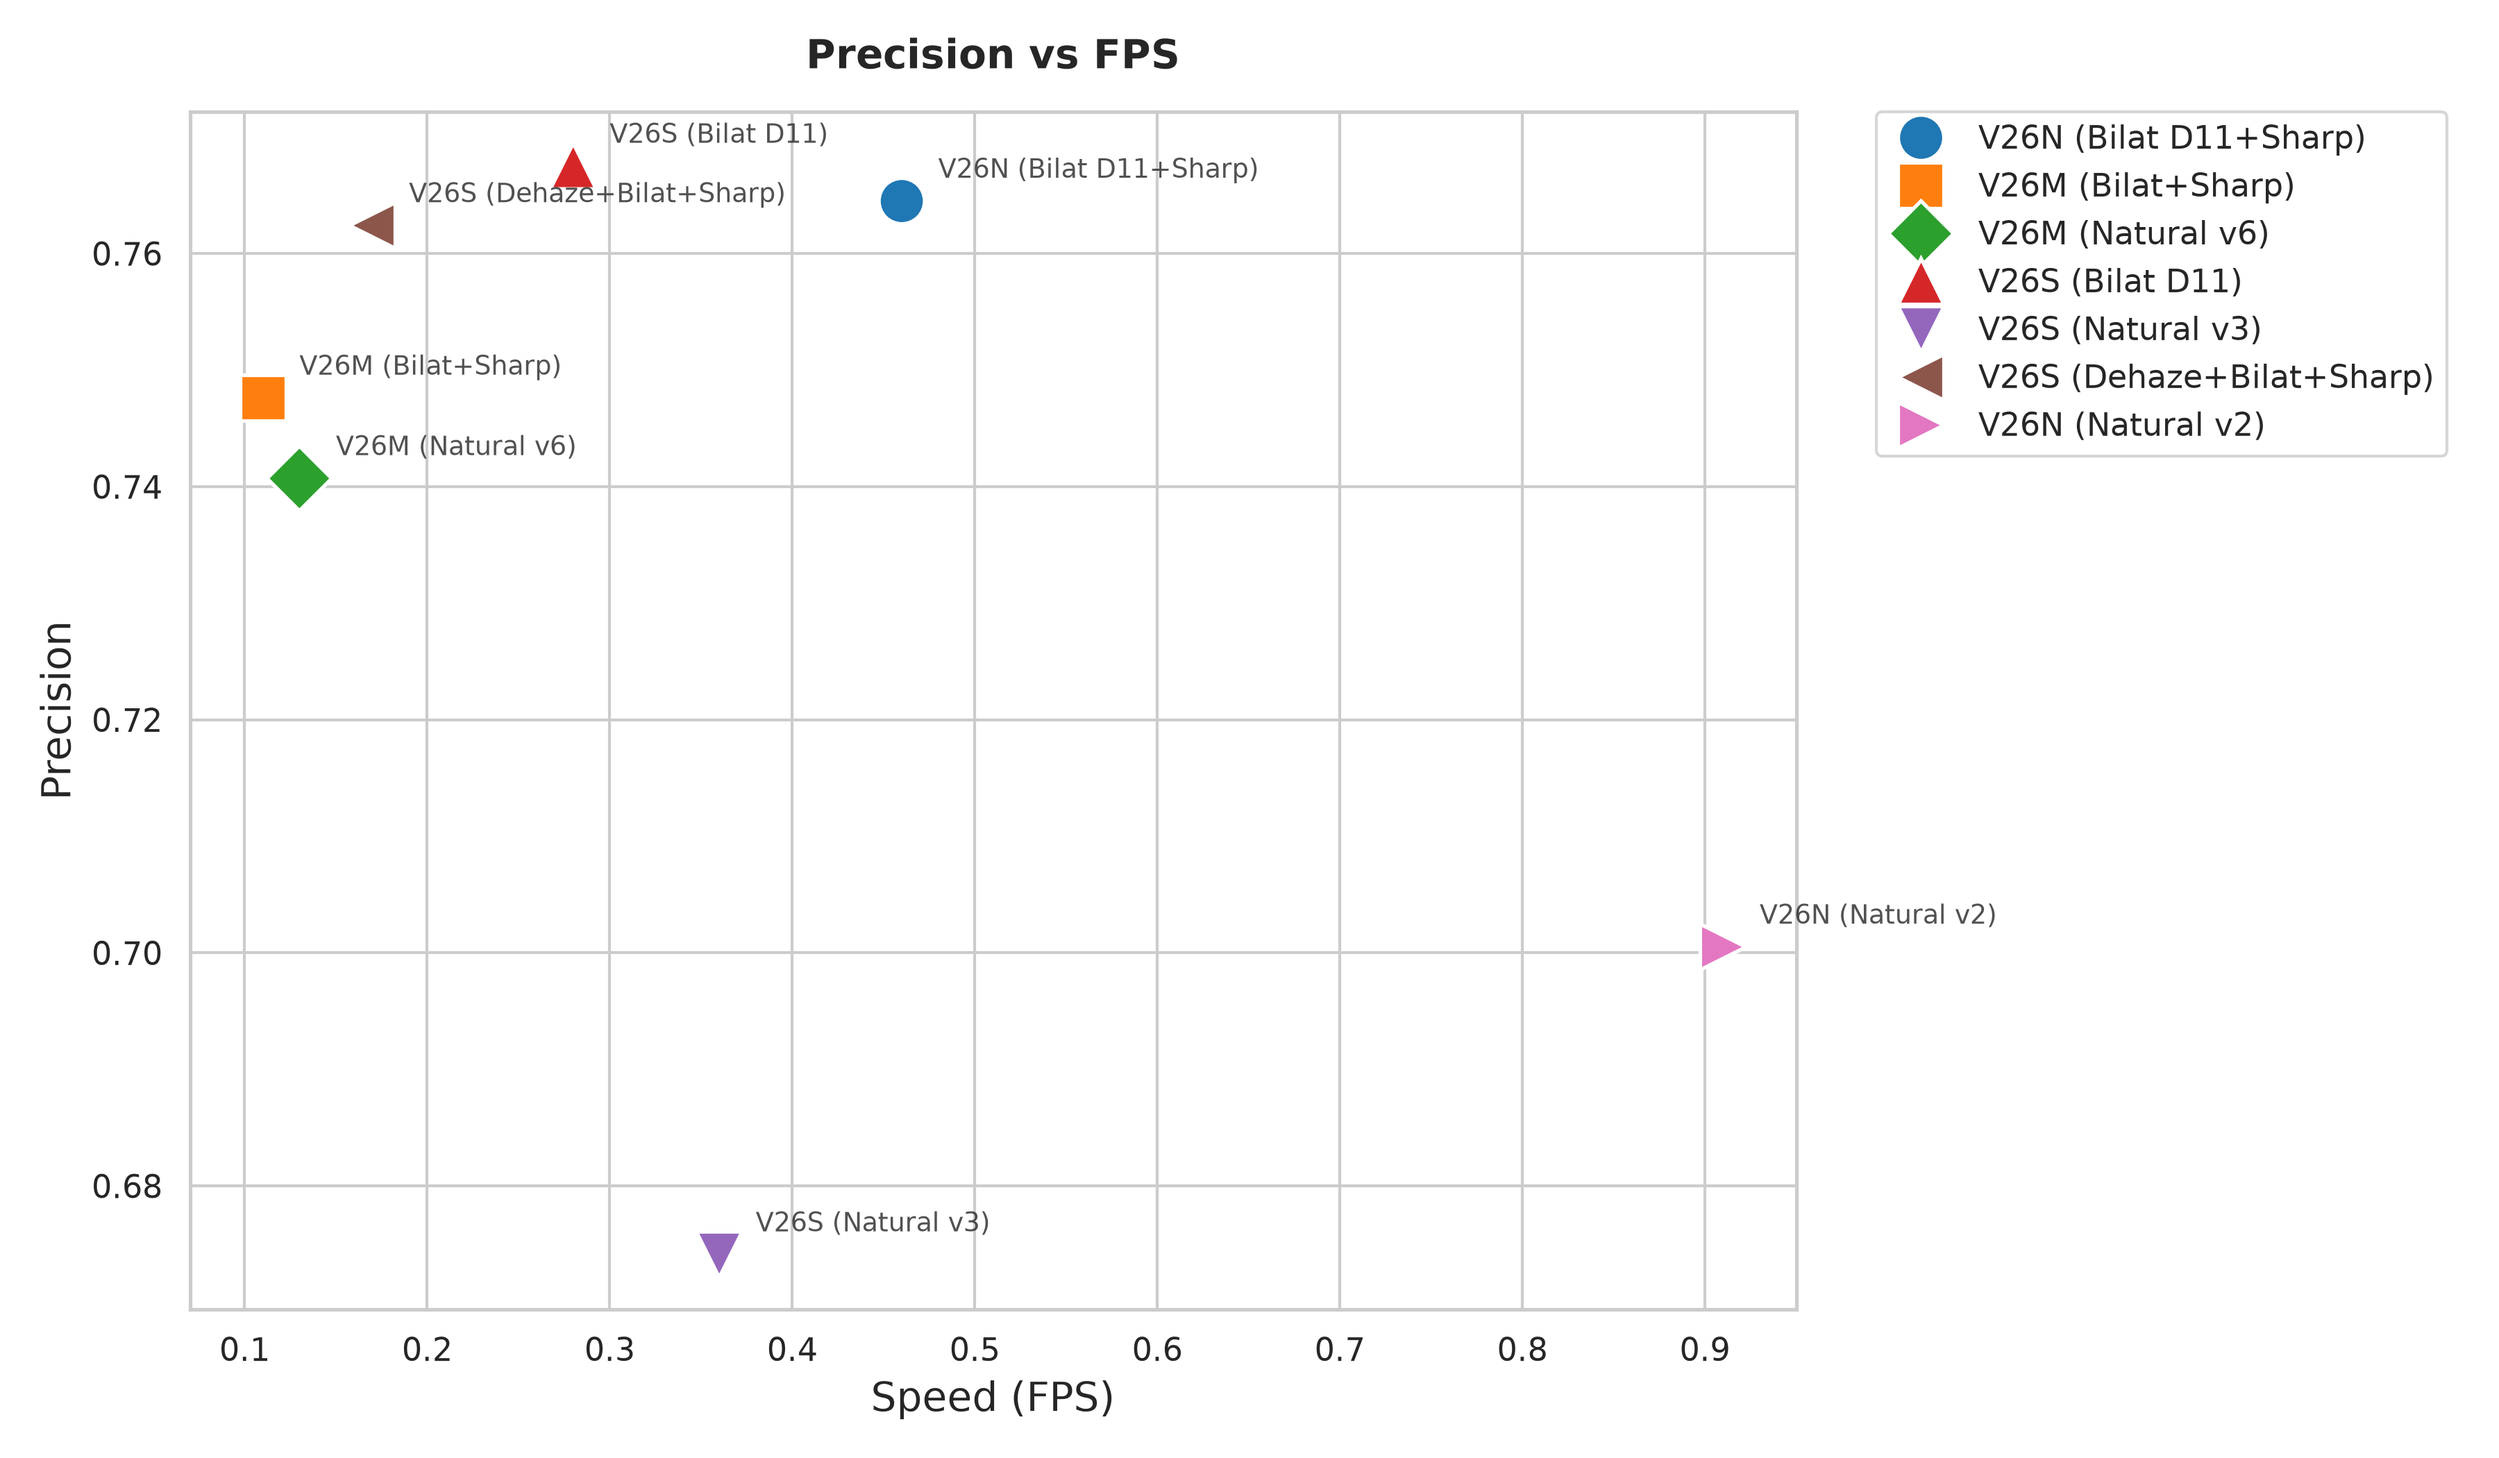
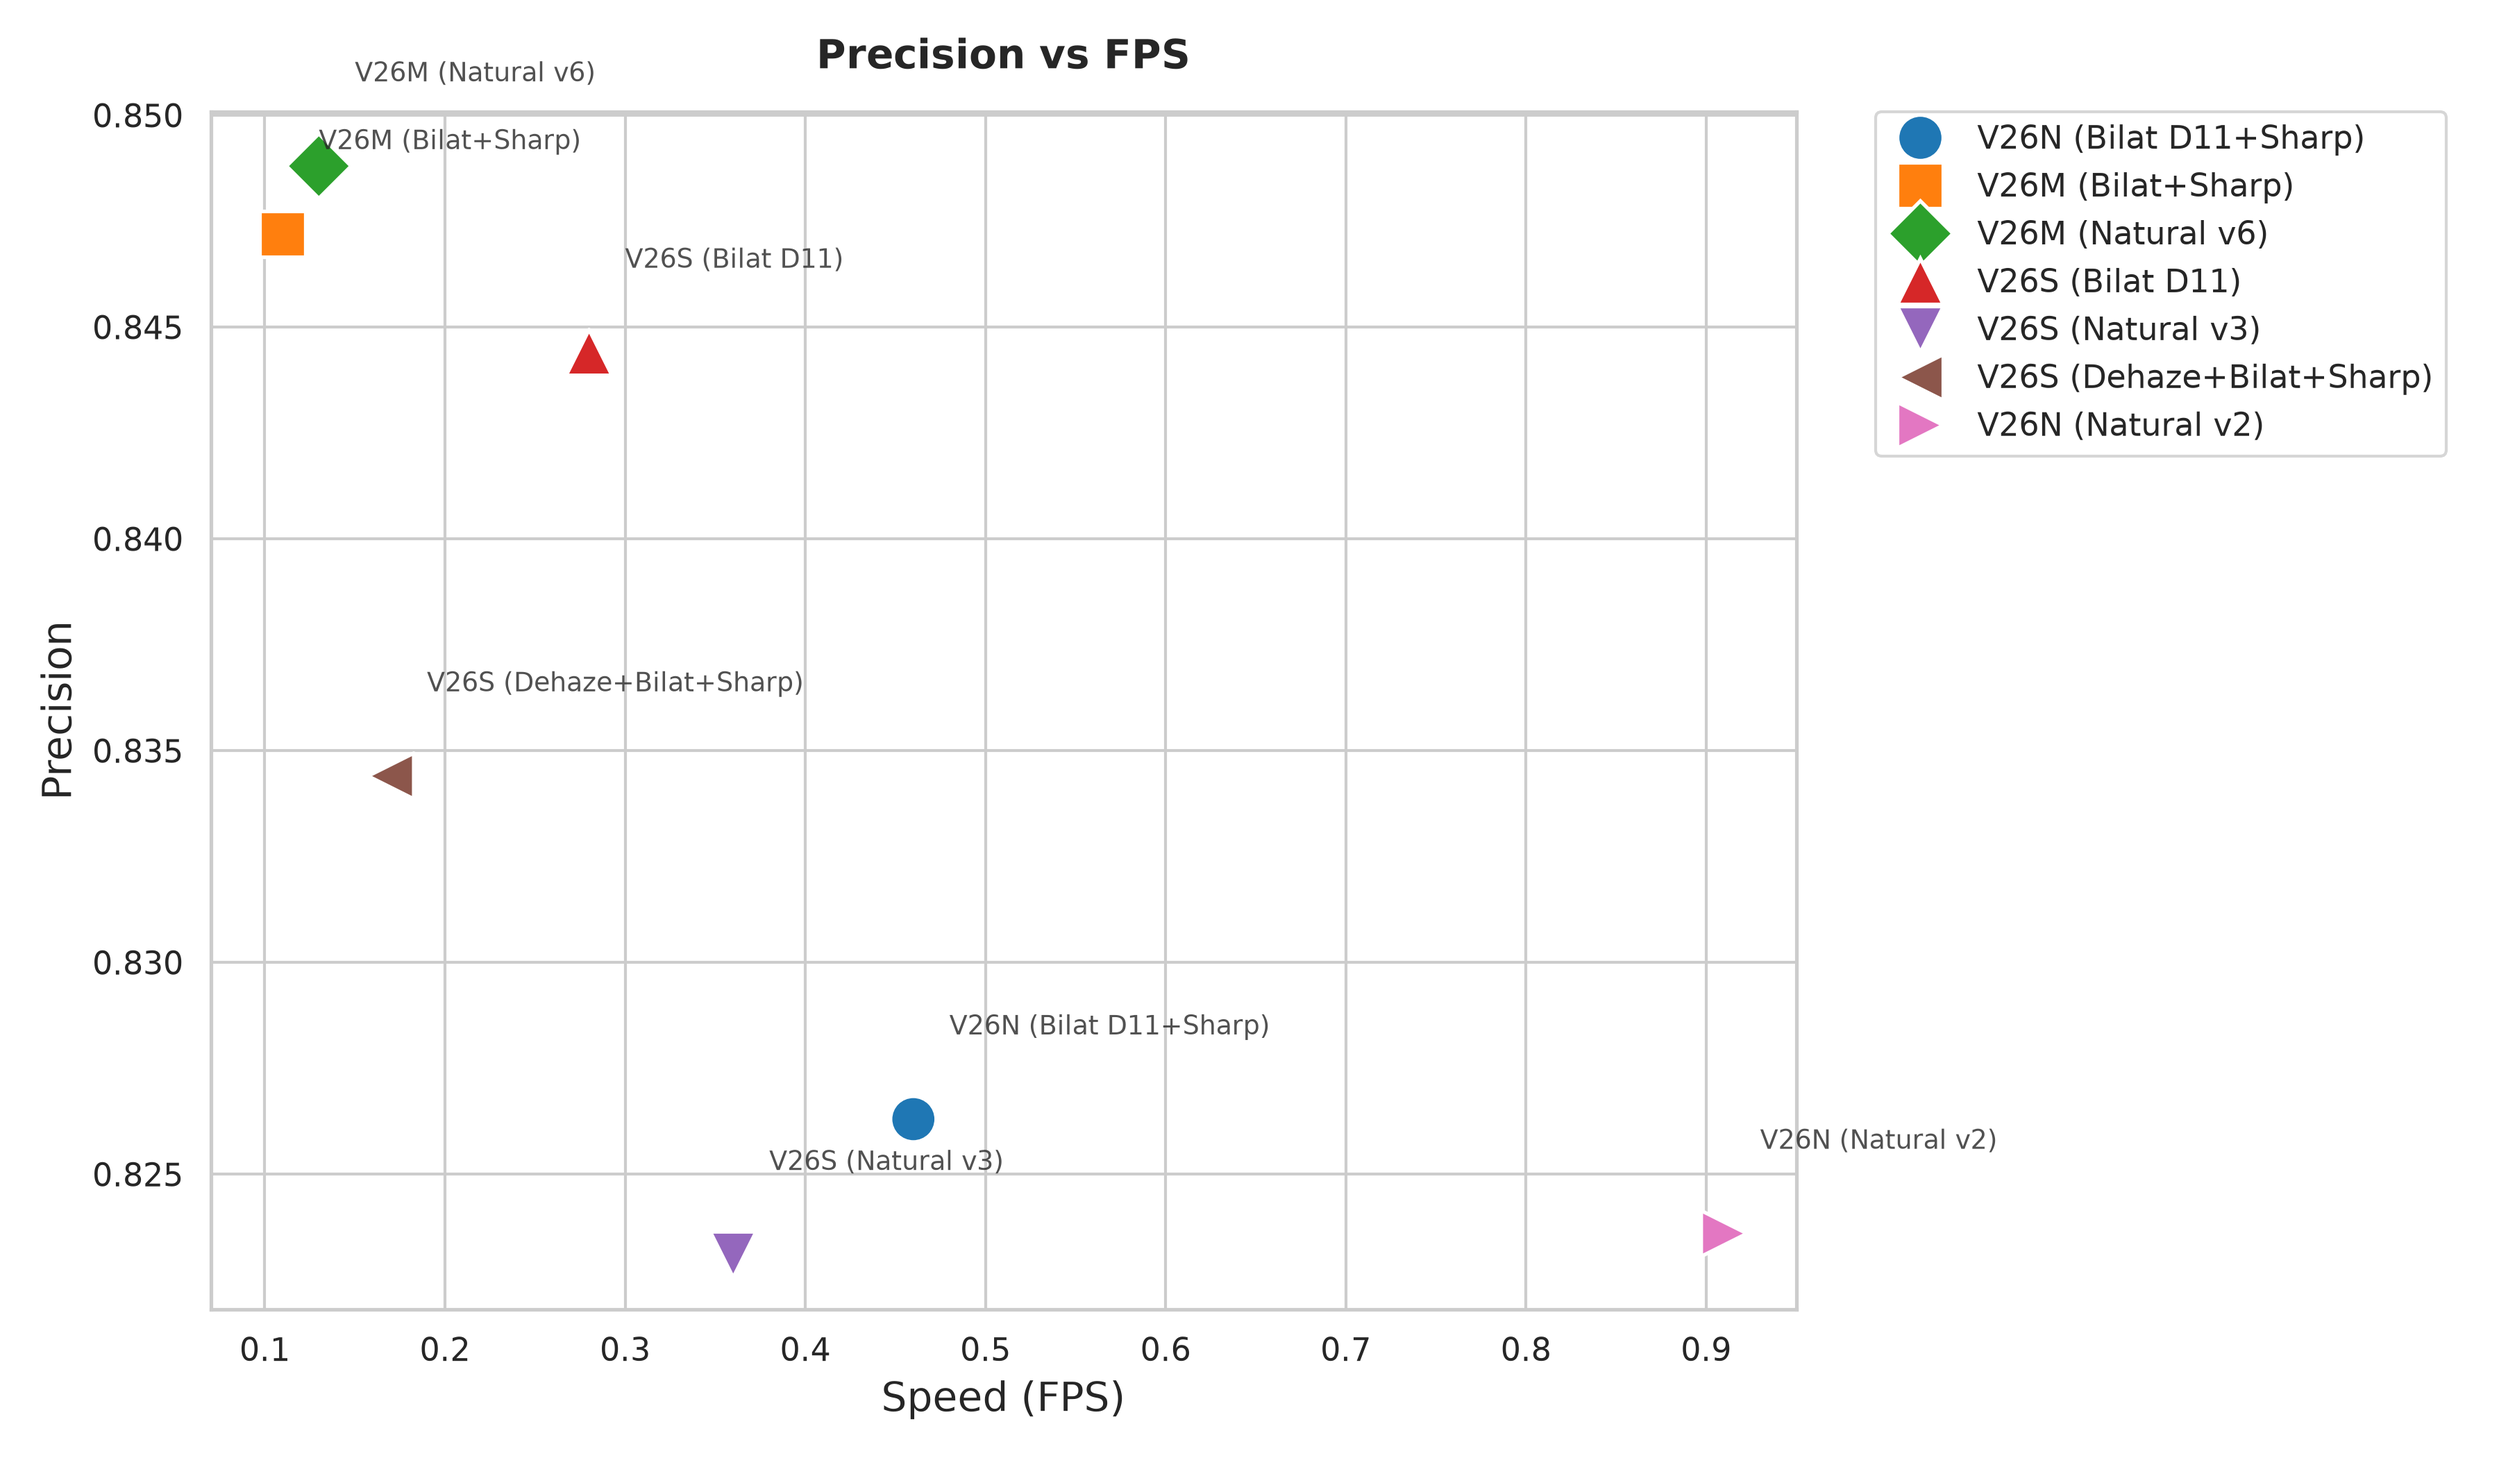
fix

diff --git a/cluster_evaluate_classes.py b/cluster_evaluate_classes.py
@@ -14,27 +14,22 @@ TOP_MODELS = [
     "v26s_untuned_dehaze_bilateral_sharp"
 ]
 
-def get_yaml_for_model(model_name):
-    """
-    Deduce il path del file YAML del dataset in base al nome del modello.
-    Se il nome ha un run_id finale (es. -6), lo rimuove per trovare il nome del dataset.
-    """
-    # Rimuove l'identificativo della run alla fine (es: "-6", "-3") se presente
-    base_name = model_name
-    if "-" in model_name:
-        base_name = model_name.rsplit("-", 1)[0]
-    
-    # Estrae i filtri: "v26m_untuned_tiled_bilateral_sharp" -> "tiled_bilateral_sharp"
-    # Assumiamo che tutti contengano "_untuned_"
-    if "_untuned_" in base_name:
-        suffix = base_name.split("_untuned_")[1]
-    else:
-        suffix = "tiled"
-        
-    yaml_dir = f"dataset_{suffix}"
-    yaml_file = f"uavod10_{suffix}.yaml"
-    
-    return os.path.join(yaml_dir, yaml_file)
+import os
+import csv
+from pathlib import Path
+from ultralytics import YOLO
+
+# Mappatura esatta estratta dal file runs.csv di MLflow.
+# In questo modo non abbiamo bisogno del file runs.csv fisicamente sul cluster!
+MODEL_TO_YAML = {
+    "v26m_untuned_tiled-6": "dataset_tiled/uavod10_tiled.yaml",
+    "v26s_untuned_tiled-3": "dataset_tiled/uavod10_tiled.yaml",
+    "v26s_untuned_tiled_bilateral_d11": "dataset_bilateral_tiled/uavod10_bilateral_tiled.yaml",
+    "v26n_untuned_tiled-2": "dataset_tiled/uavod10_tiled.yaml",
+    "v26m_untuned_tiled_bilateral_sharp": "dataset_bilateral_sharp_tiled/uavod10_bilateral_sharp_tiled.yaml",
+    "v26n_untuned_tiled_bilateral_d11_sharp": "dataset_bilateral_tiled/uavod10_bilateral_tiled.yaml",
+    "v26s_untuned_dehaze_bilateral_sharp": "dataset_dehaze_bilateral_sharp_tiled/uavod10_dehaze_bilateral_sharp_tiled.yaml"
+}
 
 def main():
     print("="*60)
@@ -47,11 +42,10 @@ def main():
         writer = csv.writer(f)
         writer.writerow(["Model", "mAP50", "mAP50-95", "Precision", "Recall"])
         
-        for model_name in TOP_MODELS:
+        for model_name, yaml_path in MODEL_TO_YAML.items():
             print(f"\n[{model_name}] Valutazione in corso...")
             
             # Cerca il file pesi best.pt nella cartella addestrata
-            # (Adattare il path se sul cluster è diverso, es. runs/detect/...)
             pt_path = f"YOLO/trained_model/{model_name}/weights/best.pt"
             
             if not os.path.exists(pt_path):
@@ -59,9 +53,8 @@ def main():
                 print("Assicurati che i modelli si trovino nel percorso corretto sul cluster.")
                 continue
                 
-            yaml_path = get_yaml_for_model(model_name)
             if not os.path.exists(yaml_path):
-                print(f"❌ ATTENZIONE: File YAML non trovato: {yaml_path}")
+                print(f"❌ ATTENZIONE: File YAML non trovato sul cluster: {yaml_path}")
                 continue
                 
             try:
@@ -77,7 +70,7 @@ def main():
                 precision = results.results_dict.get('metrics/precision(B)', 0.0)
                 recall = results.results_dict.get('metrics/recall(B)', 0.0)
                 
-                print(f"✅ Completato! mAP50: {map50:.4f}, Precision: {precision:.4f}")
+                print(f"✅ Completato! Dataset: {yaml_path} | mAP50: {map50:.4f}, Precision: {precision:.4f}")
                 
                 writer.writerow([
                     model_name,

diff --git a/plot_benchmark.py b/plot_benchmark.py
@@ -7,7 +7,19 @@ import numpy as np
 sns.set_theme(style="whitegrid")
 
 # Load data
-df = pd.read_csv('benchmark_metrics.csv')
+df_latency = pd.read_csv('benchmark_metrics.csv')
+df_metrics = pd.read_csv('metric_classes.csv')
+
+# Clean model names in latency df to match metrics df (remove _ncnn_model)
+df_latency['Model'] = df_latency['Model'].str.replace('_ncnn_model', '')
+
+# Merge the dataframes on the Model column
+# We take Precision from df_metrics, and FPS/Latency from df_latency
+df = pd.merge(df_latency, df_metrics, on='Model', suffixes=('_old', ''))
+
+# Drop the old precision column from latency df to avoid confusion
+df = df.drop(columns=['Precision_old'])
+
 
 # Clean model names for plotting
 def clean_name(name):
